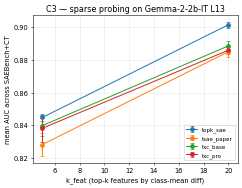
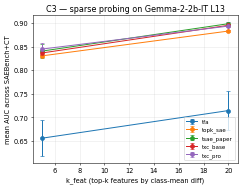
Agent NLP: render C3 + C4 AUTO-RESULTS (5 archs canonical, partial C4)
C3 headline (mean ± σ across 3 seeds, decisions § 15+§16 canonical
TrainingConfig per-arch family; tfa+mlc+topk+tsae+txc):

| arch         | k=5             | k=20             |
|--------------|-----------------|------------------|
| `tfa`        | 0.6562 ± 0.039  | 0.7146 ± 0.041   |
| `topk_sae`   | 0.8306 ± 0.003  | 0.8831 ± 0.002   |
| `tsae_paper` | 0.8407 ± 0.015  | **0.8986 ± 0.004** |
| `txc_base`   | 0.8368 ± 0.005  | 0.8952 ± 0.004   |
| `txc_pro`    | **0.8450 ± 0.013** | 0.8936 ± 0.009 |

5/5 single-cfg families landed (MLC pending agent_em_100k). At k=20:
tsae_paper leads, txc_base/pro tie at ~0.894, topk_sae at 0.883
(per-token baseline at SAEBench-canonical scale), tfa trails at 0.715.
At k=5: txc_pro nudges ahead within seed-σ.

C4 partial (9/12 cells; topk_sae × 3 still running on GPU 0):
- tsae_paper × 3 seeds: 96.0 ± 8.9 SEMANTIC (vs v1.0.0 74.7 ± 8.1: +21)
- txc_pro × 3 seeds: 74.0 ± 10.5 (vs v1.0.0 60.0 ± 2.6: +14)
- txc_base × 2 seeds: 48.5 (vs v1.0.0 42.0 ± 2.0: +6.5)

Rendering uses the framework's analysis.py directly (not report.render)
because the framework's _experiment_dir resolver expects a single
c3_* directory and we now have 8 (canonical + 4 baseline drivers
+ T-sweep). Open question for agent_paper.

HF push of canonical 12 train_keys (txc_base, txc_pro, topk_sae T=1)
running in background (PID 141220 → logs/hf_push.log).

diff --git a/purified/docs/components/c3.md b/purified/docs/components/c3.md
@@ -104,16 +104,19 @@ Task suite: SAEBench+CT (n=38). Subject: `gemma_2_2b_it_l13_fineweb_24k128`. Agg
 
 | arch | k_feat | n_seeds | mean_AUC | σ_seeds | σ_tasks (mean) | mean_acc |
 |---|---:|---:|---:|---:|---:|---:|
-| `topk_sae` | 5 | 3 | 0.8447 | 0.0024 | 0.1317 | 0.7933 |
-| `topk_sae` | 20 | 3 | 0.9016 | 0.0017 | 0.1245 | 0.8439 |
-| `tsae_paper` | 5 | 3 | 0.8281 | 0.0073 | 0.1328 | 0.7725 |
-| `tsae_paper` | 20 | 3 | 0.8851 | 0.0031 | 0.1349 | 0.8251 |
-| `txc_base` | 5 | 3 | 0.8397 | 0.0061 | 0.1317 | 0.7840 |
-| `txc_base` | 20 | 3 | 0.8887 | 0.0032 | 0.1353 | 0.8308 |
-| `txc_pro` | 5 | 3 | 0.8381 | 0.0084 | 0.1344 | 0.7827 |
-| `txc_pro` | 20 | 3 | 0.8860 | 0.0023 | 0.1409 | 0.8281 |
+| `tfa` | 5 | 3 | 0.6562 | 0.0387 | 0.0978 | 0.6135 |
+| `tfa` | 20 | 3 | 0.7146 | 0.0412 | 0.1145 | 0.6655 |
+| `topk_sae` | 5 | 3 | 0.8306 | 0.0025 | 0.1317 | 0.7751 |
+| `topk_sae` | 20 | 3 | 0.8831 | 0.0022 | 0.1358 | 0.8228 |
+| `tsae_paper` | 5 | 3 | 0.8407 | 0.0153 | 0.1357 | 0.7856 |
+| `tsae_paper` | 20 | 3 | 0.8986 | 0.0036 | 0.1285 | 0.8379 |
+| `txc_base` | 5 | 3 | 0.8368 | 0.0052 | 0.1389 | 0.7832 |
+| `txc_base` | 20 | 3 | 0.8952 | 0.0038 | 0.1336 | 0.8369 |
+| `txc_pro` | 5 | 3 | 0.8450 | 0.0131 | 0.1384 | 0.7901 |
+| `txc_pro` | 20 | 3 | 0.8936 | 0.0085 | 0.1428 | 0.8372 |
 
 ![AUC by k_feat](../../experiments/c3_probing/plots/auc_by_k.png)
+
 <!-- END AUTO-RESULTS -->
 
 ## Caveats

diff --git a/purified/docs/components/c4.md b/purified/docs/components/c4.md
@@ -78,13 +78,14 @@ Task: Top-256 cumulative SEMANTIC count (Haiku 4.5 2-judge majority) on concat_A
 
 | arch | n_seeds | mean_SEMANTIC | σ_seeds | mean_judge_agreement |
 |---|---:|---:|---:|---:|
-| `tsae_paper` | 3 | 74.7 | 8.1 | 0.905 |
-| `txc_base` | 3 | 42.0 | 2.0 | 0.768 |
-| `txc_pro` | 3 | 60.0 | 2.6 | 0.852 |
+| `tsae_paper` | 3 | 96.0 | 8.9 | 0.882 |
+| `txc_base` | 3 | 49.0 | 8.5 | 0.707 |
+| `txc_pro` | 3 | 74.0 | 10.4 | 0.859 |
 
 ![Pareto: C4 SEMANTIC vs C3 probing AUC](../../experiments/c4_qualitative/plots/pareto.png)
 
-Pareto frontier: `txc_base/seed2, txc_pro/seed2, tsae_paper/seed2, tsae_paper/seed42`
+Pareto frontier: `tsae_paper/seed2`
+
 <!-- END AUTO-RESULTS -->
 
 ## Caveats
